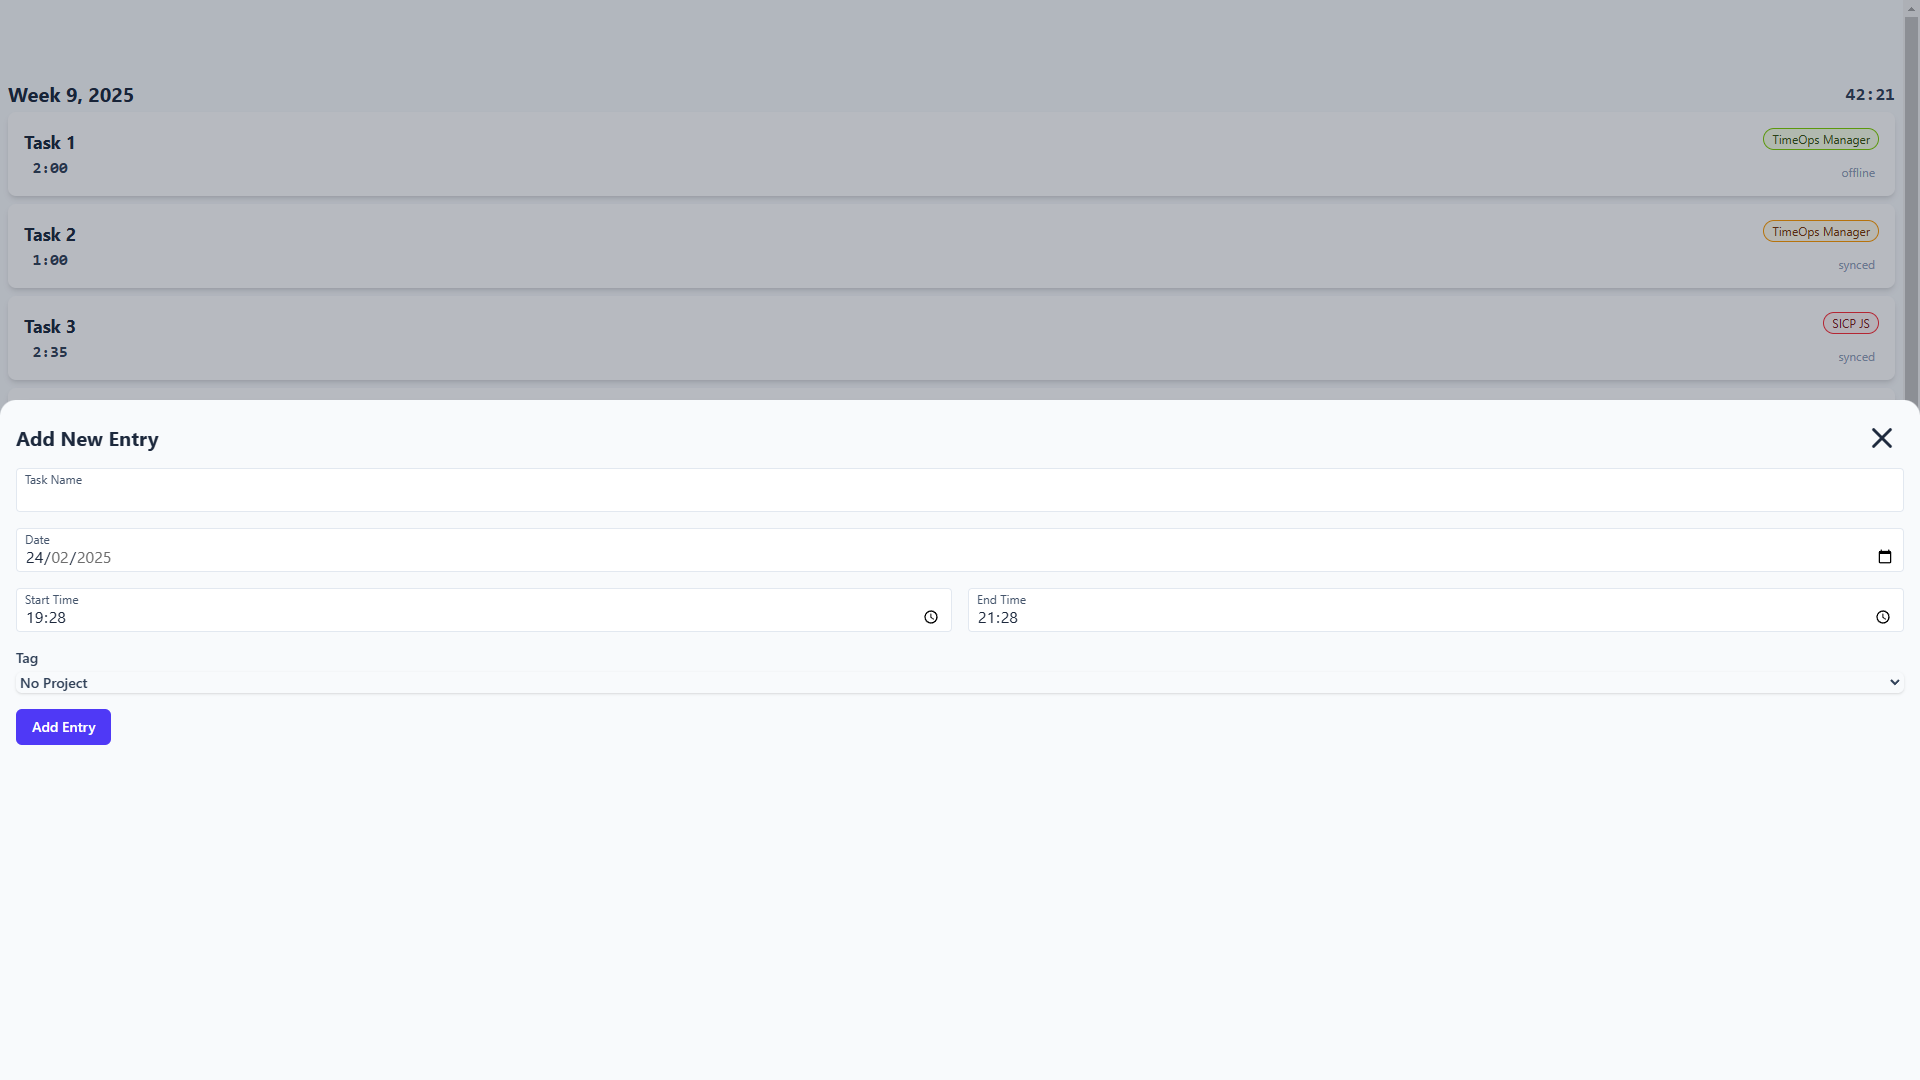
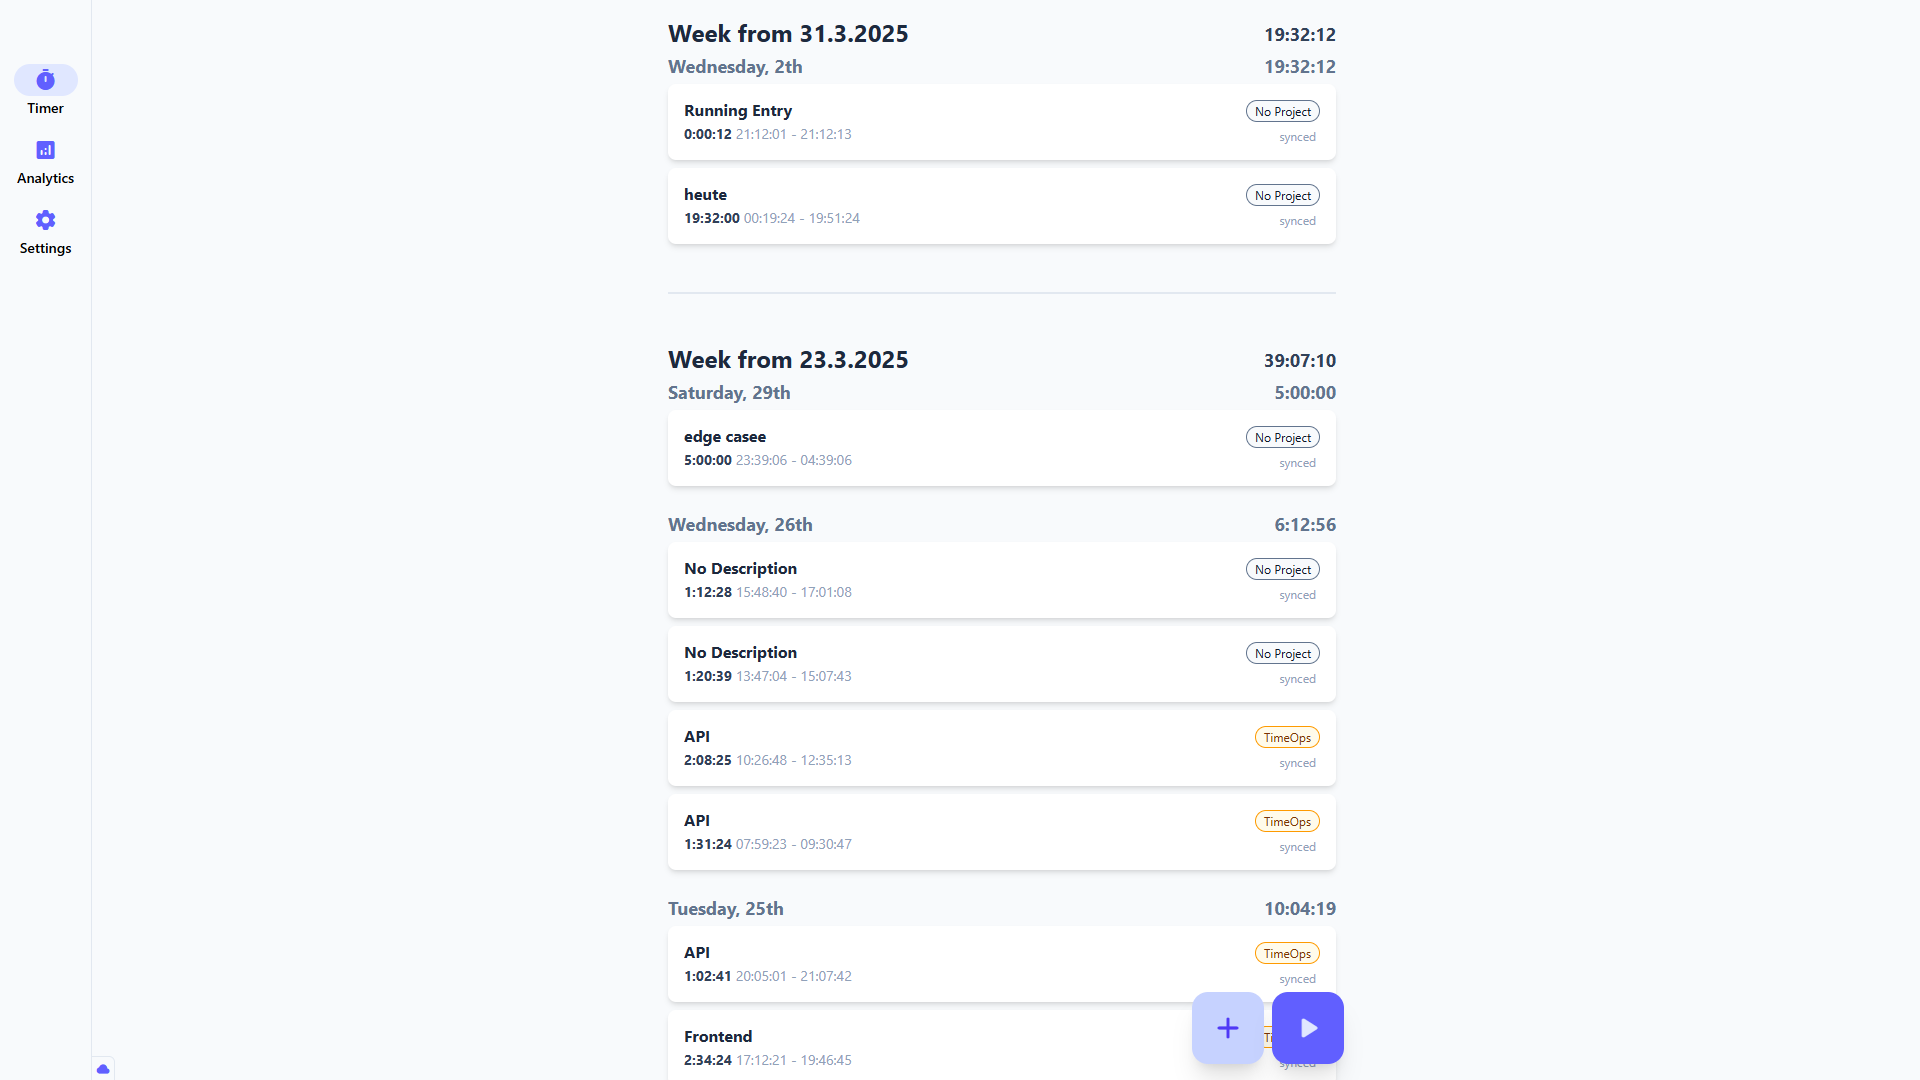
Finish up project

diff --git a/src/database/services/sync.ts b/src/database/services/sync.ts
@@ -5,7 +5,6 @@ import { API_BASE_URL } from '../../constants/global';
 import { offset } from '../../utils/time';
 
 export async function updateLocal(): Promise<void> {
-  console.warn('update local');
   const { url, token } = getUrlToken();
 
   try {
@@ -114,8 +113,6 @@ export async function updateLocal(): Promise<void> {
 }
 
 export async function updateRemote(): Promise<boolean> {
-  console.warn('Update remote called');
-
   const { url, token } = getUrlToken();
   let unsyncableChange: boolean = false;
   let atLeastOneSync: boolean = false;

diff --git a/src/features/timer/hooks/useTimer.ts b/src/features/timer/hooks/useTimer.ts
@@ -41,7 +41,6 @@ const useTimer = (isOnline: boolean) => {
    * Updates local data from remote and loads all required data
    */
   const handleDataUpdate = useCallback(async () => {
-    console.info('Data updated, isOnline:', isOnline);
     setIsLoading(true);
 
     try {

diff --git a/README.md b/README.md
@@ -1,116 +1,95 @@
-# TimeOps-Manager-Webapp
+# TOC
 
-## TODO 
+- [TOC](#toc)
+- [Overview](#overview)
+- [Setup](#setup)
+  - [WSL](#wsl)
+    - [.wslconfig](#wslconfig)
+  - [HTTPS](#https)
+    - [Server-Side](#server-side)
+    - [Client-Side](#client-side)
+- [Screenshots](#screenshots)
 
-- Fix error not showing up after entry error
+# Overview
 
-- readme
 
 ```
-├── public
-│   ├── apple-touch-icon.png
-│   ├── desktop-screenshot.png
-│   ├── favicon-96x96.png
-│   ├── maks-icon.svg
-│   ├── mobile-screenshot.png
-│   ├── pwa-192x192.png
-│   └── pwa-512x512.png
-├── src
-│   ├── constants
-│   │   ├── global.ts
-│   │   └── tags.ts
-│   ├── context
-│   │   └── ConnectionContext.tsx
-│   ├── database
-│   │   ├── services
-│   │   │   ├── analytics.ts
-│   │   │   ├── entries.ts
-│   │   │   ├── running.ts
-│   │   │   ├── sync.ts
-│   │   │   └── tags.ts
-│   │   ├── utils
-│   │   │   └── api-helpers.ts
-│   │   ├── db-instance.ts
-│   │   ├── index.ts
-│   │   └── schema.ts
-│   ├── features
-│   │   ├── analytics
-│   │   │   └── Analytics.tsx
-│   │   ├── entries
-│   │   │   ├── EntryForm.tsx
-│   │   │   ├── EntryModal.tsx
-│   │   │   └── types.ts
-│   │   ├── settings
-│   │   │   ├── components
-│   │   │   │   ├── ApiSettings.tsx
-│   │   │   │   ├── DatabaseSettings.tsx
-│   │   │   │   └── TagSettings.tsx
-│   │   │   ├── hooks
-│   │   │   │   ├── useApiSettings.ts
-│   │   │   │   └── useDatabaseOperations.ts
-│   │   │   └── pages
-│   │   │       └── Settings.tsx
-│   │   ├── tags
-│   │   │   ├── EditTags.tsx
-│   │   │   └── TagForm.tsx
-│   │   └── timer
-│   │       ├── components
-│   │       │   ├── RunningEntrySection.tsx
-│   │       │   ├── TimerActionButtons.tsx
-│   │       │   └── WeeklyEntriesSection.tsx
-│   │       ├── hooks
-│   │       │   ├── useRunningEntry.ts
-│   │       │   ├── useTimerEntries.ts
-│   │       │   └── useTimer.ts
-│   │       └── pages
-│   │           ├── Timerrrrrr.tsx
-│   │           └── Timer.tsx
-│   ├── services
-│   │   └── sseService.ts
-│   ├── types
-│   │   ├── color.types.ts
-│   │   ├── database.types.ts
-│   │   └── tags.ts
-│   ├── ui
-│   │   ├── buttons
-│   │   │   ├── Button.tsx
-│   │   │   ├── FabAdd.tsx
-│   │   │   ├── FabStart.tsx
-│   │   │   └── FAB.tsx
-│   │   ├── entries
-│   │   │   ├── Entry.tsx
-│   │   │   └── RunningEntry.tsx
-│   │   ├── feedback
-│   │   │   └── Status.tsx
-│   │   ├── inputs
-│   │   │   ├── InputFile.tsx
-│   │   │   ├── Input.tsx
-│   │   │   └── Select.tsx
-│   │   ├── layout
-│   │   │   ├── Card.tsx
-│   │   │   ├── Section.tsx
-│   │   │   ├── SettingsSection.tsx
-│   │   │   └── Table.tsx
-│   │   ├── navigation
-│   │   │   ├── NavItem.tsx
-│   │   │   └── Nav.tsx
-│   │   ├── Icon.tsx
-│   │   └── Tag.tsx
-│   ├── utils
-│   │   ├── entryToCard.tsx
-│   │   ├── groupEntries.ts
-│   │   ├── ScrollToTop.tsx
-│   │   └── time.ts
-│   ├── index.css
-│   └── index.tsx
-├── eslint.config.js
-├── index.html
-├── package.json
-├── package-lock.json
-├── prettierrc.json
-├── README.md
-└── vite.config.ts
+├── public                             # Static assets served directly to client
+│   ├── apple-touch-icon.png           # Icon for iOS home screen
+│   ├── desktop-screenshot.png         # Screenshot for PWA install on desktop
+│   ├── favicon-96x96.png              # Browser favicon
+│   ├── maks-icon.svg                  # SVG icon for masks
+│   ├── mobile-screenshot.png          # Screenshot for PWA install on mobile
+│   ├── pwa-192x192.png                # Small PWA icon
+│   └── pwa-512x512.png                # Large PWA icon
+├── src                                # Application source code
+│   ├── constants                      # App-wide constant values
+│   │   ├── global.ts                  # Global application constants
+│   │   └── tags.ts                    # Tag-related constants
+│   ├── context                        # React context providers
+│   │   └── ConnectionContext.tsx      # Manages online/offline state
+│   ├── database                       # Database related code
+│   │   ├── services                   # Database CRUD operations
+│   │   │   ├── analytics.ts           # Analytics data queries
+│   │   │   ├── entries.ts             # Time entry operations
+│   │   │   ├── running.ts             # Currently running entry operations
+│   │   │   ├── sync.ts                # Data synchronization logic
+│   │   │   └── tags.ts                # Tag management operations
+│   │   ├── utils                      # Database utility functions
+│   │   │   └── api-helpers.ts         # API connection helpers
+│   │   ├── db-instance.ts             # Database instance initialization
+│   │   ├── index.ts                   # Database exports
+│   │   └── schema.ts                  # Database schema definitions
+│   ├── features                       # Feature modules
+│   │   ├── analytics                  # Analytics feature
+│   │   │   └── Analytics.tsx          # Analytics page component
+│   │   ├── entries                    # Time entries feature
+│   │   │   ├── EntryForm.tsx          # Form for creating/editing entries
+│   │   │   ├── EntryModal.tsx         # Modal dialog for entry form
+│   │   │   └── types.ts               # Entry-related type definitions
+│   │   ├── settings                   # Settings feature
+│   │   │   ├── components             # Settings UI components
+│   │   │   ├── hooks                  # Settings-related hooks
+│   │   │   └── pages                  # Settings pages
+│   │   ├── tags                       # Tag management feature
+│   │   │   ├── EditTags.tsx           # Tag editing component
+│   │   │   └── TagForm.tsx            # Form for creating/editing tags
+│   │   └── timer                      # Timer feature
+│   │       ├── components             # Timer UI components
+│   │       ├── hooks                  # Timer-related hooks
+│   │       └── pages                  # Timer pages
+│   ├── services                       # External services
+│   │   └── sseService.ts              # Server-sent events service
+│   ├── types                          # TypeScript type definitions
+│   │   ├── color.types.ts             # Color-related types
+│   │   ├── database.types.ts          # Database model types
+│   │   └── tags.ts                    # Tag-related types
+│   ├── ui                             # Reusable UI components
+│   │   ├── buttons                    # Button components
+│   │   ├── entries                    # Entry display components
+│   │   ├── feedback                   # User feedback components
+│   │   ├── inputs                     # Form input components
+│   │   ├── layout                     # Layout components
+│   │   ├── navigation                 # Navigation components
+│   │   ├── Icon.tsx                   # Icon component
+│   │   └── Tag.tsx                    # Tag display component
+│   ├── utils                          # Utility functions
+│   │   ├── entryToCard.tsx            # Converts entries to card components
+│   │   ├── groupEntries.ts            # Groups entries by time periods
+│   │   ├── ScrollToTop.tsx            # Scroll restoration component
+│   │   └── time.ts                    # Time manipulation utilities
+│   ├── index.css                      # Global CSS styles
+│   └── index.tsx                      # Application entry point
+├── eslint.config.js                   # ESLint configuration
+├── index.html                         # HTML entry point
+├── package.json                       # NPM dependencies and scripts
+├── package-lock.json                  # Locked NPM dependencies
+├── prettierrc.json                    # Prettier code formatter config
+├── README.md                          # Project documentation
+└── vite.config.ts                     # Vite bundler configuration
 ```
+
+# Setup
 
 ## WSL
 
@@ -145,29 +124,53 @@ dhcp=true
 
 ## HTTPS
 
-```sh
-# Create cert inside project folder
-mkcert -install
-mkcert 192.168.178.43
+### Server-Side
 
-# Folder where rootCA.pem is
+```sh
+# 1. Install mkcert if not already installed
+# On Ubuntu/Debian:
+# sudo apt install mkcert
+
+# 2. Create certificates inside project folder
+mkcert -install
+mkcert 192.168.178.43  # Use your server's IP address
+
+# 3. Find the location of your root CA certificate
 mkcert -CAROOT
 
-# Convert to CRT for Android and Windows
+# 4. Convert certificate to CRT format (for Android and Windows clients)
 openssl x509 -in "192.168.178.43.pem" -out rootCA.crt
 
-# Add cert on Windows (run as Admin)
+```
+
+### Client-Side
+
+```sh
+# 1. Copy the certificate files from WSL to Windows if needed
+# Example: \\wsl$\Ubuntu\path\to\project\192.168.178.43.pem
+
+# 2. Add certificate to Windows trust store (run as Administrator)
 certutil -addstore -f "ROOT" "192.168.178.43.pem"
 
-# List current port proxy
+# 3. Configure port forwarding for the application
+
+# List current port proxy settings
 netsh interface portproxy show all
 
-# Remove old port proxy
+# Remove any conflicting port proxy settings
 netsh interface portproxy delete v4tov4 listenport=5173 listenaddress=0.0.0.0
 
-# Add new port proxy
+# Add new port proxy settings
 netsh interface portproxy add v4tov4 listenport=5173 listenaddress=0.0.0.0 connectport=5173 connectaddress=192.168.178.43
 
+# For API server port
 netsh interface portproxy add v4tov4 listenport=3000 listenaddress=0.0.0.0 connectport=3000 connectaddress=192.168.178.43
-
 ```
+
+# Screenshots
+
+![](./media/timer.png)
+![](./media/popup.png)
+![](./media/settings.png)
+![](./media/weeks.png)
+![](./media/tags.png)
